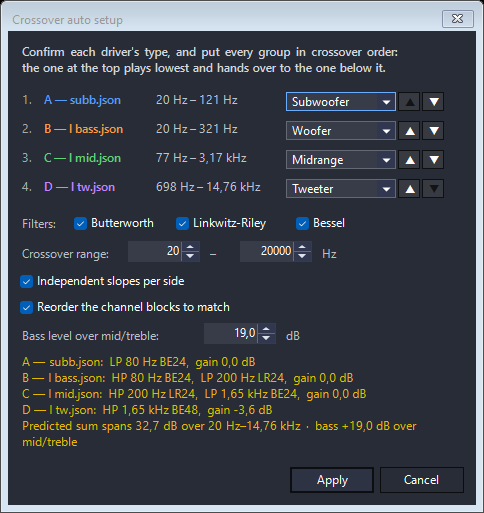
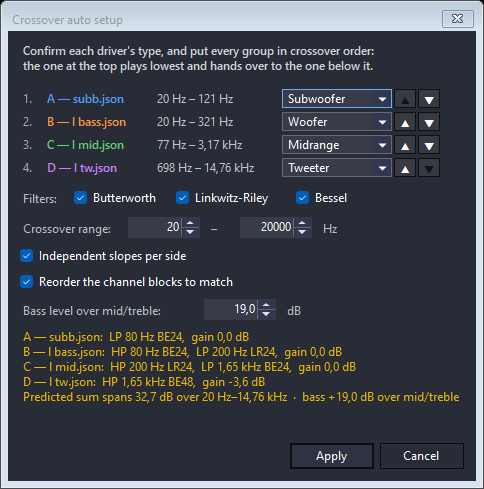
Fix auto crossover layout and document channel groups (#154)
The auto crossover dialog kept its designed width after adding data-driven channel rows, so ordinary imported filenames could push the Down controls beyond the client edge. Size the client area from the realized table at the current DPI, widen the proposal preview with it, and keep the anchored action buttons on the new edge. An STA layout regression test reproduces the reported filenames and pins the table inside the client area.

Expand the tuning manual around the recently added channel groups. The new section maps every row of a real channel card, explains the Sub, Front, Rear and Center zones, states exactly what every Show view draws and sums, and walks through staged Auto Delay including the Rear fill offset and the Groups read-out.

Close the adjacent stale-proposal hole found in review: Rear fill now invalidates a completed Auto Delay result just like every other run input, disabling Apply until the proposal is recomputed. An STA dialog test covers the full Run, edit, invalidation sequence.

Keep the documentation figures reproducible: the screenshot tool now captures and annotates the real channel card, supports compact numbered badges for dense controls, and refreshes the Auto crossover and Auto delay figures from the current UI.

Verification:
- dotnet test source/Resonalyze.sln -c Release --no-restore --filter Category!=Hardware
- 159 Audio tests passed
- 1,410 DSP tests passed
- 1,964 App tests passed; 3 explicit harness tests skipped
[…]

diff --git a/tools/Resonalyze.Screenshots/Shots.cs b/tools/Resonalyze.Screenshots/Shots.cs
@@ -51,10 +51,10 @@ internal static class Shots
                       "backend to draw the dialog for, which no measurement records"
                     : null)),
         new("manual", ShotSession.ManualWindowSize,
-            ["manual/virtual-dsp", "manual/eq-wizard-handoff", "manual/eq-wizard-tuned",
-             "manual/dsp-processor", "manual/dsp-processor-model", "manual/eq-target",
-             "manual/auto-crossover", "manual/auto-delay", "manual/tuning-sheet-q",
-             "manual/audition-track"],
+            ["manual/virtual-dsp", "manual/channel-card", "manual/eq-wizard-handoff",
+             "manual/eq-wizard-tuned", "manual/dsp-processor",
+             "manual/dsp-processor-model", "manual/eq-target", "manual/auto-crossover",
+             "manual/auto-delay", "manual/tuning-sheet-q", "manual/audition-track"],
             Manual)
     ];
 
@@ -340,6 +340,17 @@ internal static class Shots
             AnnotateVirtualDsp(session.Config.Resolve("manual/virtual-dsp"));
         }
 
+        if (wanted("manual/channel-card"))
+        {
+            var list = Reflect.Field<FlowLayoutPanel>(panel, "channelListPanel");
+            Control card = list.Controls.Count > 1
+                ? list.Controls[1]
+                : throw new InvalidOperationException(
+                    "manual/channel-card: the session has no second channel block.");
+            session.Capture(card, "manual/channel-card");
+            AnnotateChannelCard(session.Config.Resolve("manual/channel-card"));
+        }
+
         // The wizard first, and every modal after it: a modal loop of its own is the
         // one thing that has ever disturbed the wizard's async Auto Tune here.
         if (wanted("manual/eq-wizard-handoff") || wanted("manual/eq-wizard-tuned"))
@@ -520,6 +531,28 @@ internal static class Shots
               // The read-out starts high in the column now that Virtual DSP's free
               // right-hand space is all its own — the box followed it up from 384.
               .Region(Box(1490, 145, 1716, 1014), "6", new Point(1516, 988))
+              .Save(path);
+    }
+
+    private static void AnnotateChannelCard(string path)
+    {
+        // A narrow gutter keeps every number off the controls. The smaller badges
+        // are deliberate: six 19-26 px rows have to remain individually readable
+        // on a card only 204 px tall, while the legend itself stays in Markdown.
+        using Annotate figure = Annotate.Open(path);
+        figure.Gutter(40, onLeft: true, sample: new Point(318, 100))
+              .Region(Box(3, 3, 319, 30), "1", new Point(20, 16),
+                  leader: true, badgeRadius: 10)
+              .Region(Box(3, 31, 319, 53), "2", new Point(20, 42),
+                  leader: true, badgeRadius: 10)
+              .Region(Box(3, 53, 319, 75), "3", new Point(20, 64),
+                  leader: true, badgeRadius: 10)
+              .Region(Box(3, 75, 319, 100), "4", new Point(20, 87),
+                  leader: true, badgeRadius: 10)
+              .Region(Box(3, 101, 319, 178), "5", new Point(20, 139),
+                  leader: true, badgeRadius: 10)
+              .Region(Box(3, 179, 319, 203), "6", new Point(20, 191),
+                  leader: true, badgeRadius: 10)
               .Save(path);
     }
 

diff --git a/source/Tools/VirtualCrossover/VirtualCrossoverAutoSetupDialog.cs b/source/Tools/VirtualCrossover/VirtualCrossoverAutoSetupDialog.cs
@@ -407,7 +407,8 @@ internal sealed partial class VirtualCrossoverAutoSetupDialog : Form
     }
 
     // Slides the whole options block just below the auto-sized channel table and
-    // grows the client area so the bottom-anchored buttons clear the preview.
+    // grows the client area so the table clears the right edge and the
+    // bottom-anchored buttons clear the preview.
     // Runs once, after the form has been scaled, so every measurement here is
     // already in device pixels — no hand-computed 96-DPI coordinates survive.
     private void LayoutBelowChannelTable()
@@ -435,7 +436,8 @@ internal sealed partial class VirtualCrossoverAutoSetupDialog : Form
         }
 
         tableChannels.PerformLayout();
-        int shift = tableChannels.Bottom + LogicalToDeviceUnits(12) - labelFilters.Top;
+        int outsideMargin = LogicalToDeviceUnits(12);
+        int shift = tableChannels.Bottom + outsideMargin - labelFilters.Top;
         foreach (Control control in new Control[]
                  {
                      labelFilters, checkButterworth, checkLinkwitzRiley, checkBessel,
@@ -446,6 +448,14 @@ internal sealed partial class VirtualCrossoverAutoSetupDialog : Form
         {
             control.Top += shift;
         }
+
+        // The table is AutoSize because names and measured bands are data. It can
+        // therefore be wider than the designed client area even at 100% DPI, and
+        // the last Down arrow used to be painted outside the dialog. Give the
+        // table its real width plus the same right margin as the left one, and let
+        // the anchored action buttons follow the new edge.
+        int clientWidth = Math.Max(ClientSize.Width, tableChannels.Right + outsideMargin);
+        labelPreview.Width = clientWidth - labelPreview.Left - outsideMargin;
 
         // The preview shows one line per channel plus a heading and a summary for
         // every group, and a summary long enough wraps onto a second line — so it
@@ -461,9 +471,8 @@ internal sealed partial class VirtualCrossoverAutoSetupDialog : Form
                     TextFormatFlags.WordBreak).Height)
             + LogicalToDeviceUnits(6);
         ClientSize = new Size(
-            ClientSize.Width,
-            labelPreview.Bottom + LogicalToDeviceUnits(12) + buttonApply.Height
-                + LogicalToDeviceUnits(12));
+            clientWidth,
+            labelPreview.Bottom + outsideMargin + buttonApply.Height + outsideMargin);
     }
 
     // The tallest the preview can get: every channel, plus a heading and a

diff --git a/tests/Resonalyze.App.Tests/VirtualCrossoverAutoSetupGroupTests.cs b/tests/Resonalyze.App.Tests/VirtualCrossoverAutoSetupGroupTests.cs
@@ -78,6 +78,41 @@ public sealed class VirtualCrossoverAutoSetupGroupTests
             "G rear sub", VirtualCrossoverAlignmentStage.FrontChain, 20, 300, lowPassHz: 50)
     ];
 
+    [Fact]
+    public void ChannelOrderControlsRemainInsideTheClientArea()
+    {
+        // These are ordinary imported filenames, not pathological labels. At the
+        // designed fixed width their table reaches past the right edge and clips
+        // the Down arrow, exactly where the user needs it to reorder the chain.
+        string[] names =
+        [
+            "A — f R TWEET.json",
+            "B — f RT Mid.json",
+            "C — f R MB.json",
+            "D — f FRONT Sub.json",
+            "E — f REAR Sub.json",
+            "F — f R fill.json",
+            "G — f R center.json"
+        ];
+        IReadOnlyList<AutoSetupWizardChannel> channels = ReferenceCar()
+            .Select((channel, index) => channel with { Name = names[index] })
+            .ToList();
+
+        StaTest.Run(() =>
+        {
+            using var dialog = new VirtualCrossoverAutoSetupDialog();
+            dialog.Init(SampleRate, SampleRate, channels);
+            dialog.Show();
+
+            var table = (TableLayoutPanel)typeof(VirtualCrossoverAutoSetupDialog)
+                .GetField("tableChannels", BindingFlags.NonPublic | BindingFlags.Instance)!
+                .GetValue(dialog)!;
+            Assert.True(
+                table.Right < dialog.ClientSize.Width,
+                $"channel table ends at {table.Right} in a {dialog.ClientSize.Width}px client");
+        });
+    }
+
     // Apply's handler is async void and, with no impulse responses to rank
     // against, finishes inside the call — the ranked path is the one that awaits.
     // Every fixture here must leave the order unambiguous (corners on the subs):

diff --git a/tools/Resonalyze.Screenshots/Annotate.cs b/tools/Resonalyze.Screenshots/Annotate.cs
@@ -79,20 +79,27 @@ internal sealed class Annotate : IDisposable
     }
 
     /// <summary>A numbered region, with an optional leader to a badge outside it.</summary>
-    public Annotate Region(Rectangle box, string number, Point badgeAt, bool leader = false)
+    public Annotate Region(
+        Rectangle box,
+        string number,
+        Point badgeAt,
+        bool leader = false,
+        int badgeRadius = 17)
     {
         Rectangle shifted = Shift(box);
         Point badge = new(badgeAt.X + (badgeAt.X < offsetX ? 0 : offsetX), badgeAt.Y);
         DrawRounded(shifted, Amber, 3, 9);
         if (leader)
         {
-            int fromX = badge.X < shifted.Left ? badge.X + 17 : badge.X - 17;
+            int fromX = badge.X < shifted.Left
+                ? badge.X + badgeRadius
+                : badge.X - badgeRadius;
             int toX = badge.X < shifted.Left ? shifted.Left : shifted.Right;
             using var pen = new Pen(Amber, 3);
             graphics.DrawLine(pen, fromX, badge.Y, toX, badge.Y);
         }
 
-        DrawBadge(badge, number);
+        DrawBadge(badge, number, badgeRadius);
         return this;
     }
 
@@ -172,7 +179,8 @@ internal sealed class Annotate : IDisposable
     {
         using var fill = new SolidBrush(Amber);
         graphics.FillEllipse(fill, centre.X - radius, centre.Y - radius, radius * 2, radius * 2);
-        using Font font = new("Segoe UI", 21, FontStyle.Bold, GraphicsUnit.Pixel);
+        int fontSize = radius == 17 ? 21 : Math.Max(12, radius + 4);
+        using Font font = new("Segoe UI", fontSize, FontStyle.Bold, GraphicsUnit.Pixel);
         SizeF size = graphics.MeasureString(text, font);
         using var ink = new SolidBrush(Ink);
         graphics.DrawString(

diff --git a/tests/Resonalyze.App.Tests/VirtualCrossoverAutoDelayDialogTests.cs b/tests/Resonalyze.App.Tests/VirtualCrossoverAutoDelayDialogTests.cs
@@ -1,0 +1,44 @@
+using System.Reflection;
+using System.Text;
+using System.Windows.Forms;
+using Resonalyze;
+
+namespace Resonalyze.App.Tests;
+
+public sealed class VirtualCrossoverAutoDelayDialogTests
+{
+    [Fact]
+    public void ChangingRearFillInvalidatesTheCompletedProposal() => StaTest.Run(() =>
+    {
+        using var dialog = new VirtualCrossoverAutoDelayDialog();
+        dialog.Init(
+            stereo: true,
+            sceneOffsetMs: 0.25,
+            rightHandDrive: false,
+            nearSideCutDb: 1.0,
+            request => Task.FromResult(new AutoDelayRunResult(
+                [], true, request, "Proposal for the current inputs.", new StringBuilder())),
+            hasRearFill: true,
+            rearFillOffsetMs: 15.0);
+
+        var run = (Task)typeof(VirtualCrossoverAutoDelayDialog)
+            .GetMethod("RunAsync", BindingFlags.NonPublic | BindingFlags.Instance)!
+            .Invoke(dialog, null)!;
+        run.GetAwaiter().GetResult();
+
+        Assert.NotNull(dialog.Result);
+        Button apply = Field<Button>(dialog, "buttonApply");
+        Assert.True(apply.Enabled);
+
+        Field<DarkNumericUpDown>(dialog, "numericRearFill").Value = 10m;
+
+        Assert.Null(dialog.Result);
+        Assert.False(apply.Enabled);
+        Assert.Contains("Run again", Field<Label>(dialog, "labelStatus").Text);
+    });
+
+    private static T Field<T>(object target, string name) where T : class =>
+        (T)target.GetType()
+            .GetField(name, BindingFlags.NonPublic | BindingFlags.Instance)!
+            .GetValue(target)!;
+}

diff --git a/source/Tools/VirtualCrossover/VirtualCrossoverAutoDelayDialog.cs b/source/Tools/VirtualCrossover/VirtualCrossoverAutoDelayDialog.cs
@@ -40,6 +40,7 @@ internal sealed partial class VirtualCrossoverAutoDelayDialog : Form
         // own Checked, so LHD needs no listener of its own.
         radioRightHandDrive.CheckedChanged += (_, _) => InvalidateResult();
         numericSceneOffset.ValueChanged += (_, _) => InvalidateResult();
+        numericRearFill.ValueChanged += (_, _) => InvalidateResult();
         numericNearSideCut.ValueChanged += (_, _) => InvalidateResult();
         checkBoxGains.CheckedChanged += (_, _) =>
         {

diff --git a/MANUAL.md b/MANUAL.md
@@ -640,18 +640,59 @@ For a three-way front stage with a subwoofer:
 Load the saved `.json` measurements for the **Left** and **Right** sides of each stereo
 band. For a shared subwoofer, enable **Mono** and load its single measurement.
 
-Set each block's **Zone** while you are there — **Front** for the stereo bands of the
-front stage, **Sub** for the subwoofer, and **Rear** or **Center** for the blocks a
-larger install adds. Picking **Center** switches **Mono** on and locks it, because a
-centre channel plays a signal derived from L and R and has no side of its own.
+### One channel card
 
-The zone is what the **Show** selector under the plot sorts by, so on a front-only car
-you can set every block to Front and Sub and forget it — that is the default view and
-what this chapter's four-way looks like throughout. On a larger install the zone is how
-you look at one part at a time: the front stage with its subwoofers, then the rear fill,
-then the centre. **Auto delay** reads the zone as well: it settles the front chain first
-and then places the rear fill and the centre against it, so on a larger install the zones
-are what make its proposal mean anything.
+The same controls repeat on every block. This enlarged card is the useful map when the
+full-panel figure above is too small to read:
+
+![One Virtual DSP channel card, with its six control rows marked](assets/images/manual/channel-card.png)
+
+1. **Source** — the measurement loaded for the side currently selected below the card
+   list; **MMM / Array** attaches or selects its spatial average, and the speaker button
+   excludes this block from the plots, Sum, metrics and Auto Delay.
+2. **Curves** — show the raw measurement, the processed result, or bypass the whole
+   virtual chain for this block.
+3. **Level and time** — channel gain, total gain after PEQ preamp, and delay.
+4. **Group and order** — **Zone**, **Mono**, polarity inversion, and the **▲▼** buttons
+   that move the entire block in the list.
+5. **Crossover** — kind, HP/LP corners, family, slope, and ripple where the selected
+   family has one.
+6. **PEQ** — hand the processed channel to the EQ Wizard, load or clear its bank, and
+   read back how many bands and how much preamp it carries.
+
+### Assign channel groups
+
+Set each block's **Zone** as soon as its source is loaded. A zone does not reroute audio
+or change a filter; it tells the plot and the two optimizers which physical part of the
+installation the block belongs to:
+
+- **Sub** — every subwoofer block. Sub is its own display and tuning-sheet section, but
+  it is the bottom of the **front crossover chain** for Auto Crossover and Auto Delay,
+  not a fourth independent alignment stage.
+- **Front** — the stereo woofer/midbass, midrange and tweeter bands of the front stage.
+- **Rear** — the rear fill. A multi-way rear remains one group: its own drivers are
+  crossed and aligned with each other before the complete rear group is placed against
+  the front.
+- **Center** — the centre speaker, including every band of a multi-way centre. Picking
+  Center switches **Mono** on and locks it, because the centre has no left or right side
+  of its own.
+
+The **Show** selector below the main plot then turns those zones into useful views:
+
+| Show | What it draws | What its Sum contains |
+| --- | --- | --- |
+| **Front + Sub** | front-stage and subwoofer driver curves | all of them |
+| **Rear + Sub** | rear-fill and subwoofer driver curves | all of them |
+| **Front + Center** | front-stage and centre curves for comparison | front only |
+| **Groups** | one summed line per zone, with no driver curves | each zone separately |
+| **Everything** | every driver | everything except the centre |
+
+**Front + Sub** is the default and the only view a front-only install normally needs.
+Use **Rear + Sub** to inspect the rear's own crossover chain, **Front + Center** to
+compare the centre without inventing a programme-dependent sum, and **Groups** to set
+the rear and centre's arrival and level against the front. The read-out follows the
+view: across groups it reports **vs Front** arrival and level differences instead of
+calling the inevitable front/rear combing a crossover loss.
 
 So seven RAW measurements become four Virtual DSP channels:
 
@@ -1252,6 +1293,32 @@ the processed system, not on the RAW drivers.**
 Press **Auto delay...** in Virtual DSP.
 
 Select **LHD** or **RHD** according to the steering-wheel position.
+
+### How Auto Delay uses the groups
+
+Auto Delay does not pretend the whole car is one crossover chain. It works in stages:
+
+1. It aligns **Front + Sub** first, walking each real crossover junction from the
+   lowest subwoofer to the highest front driver.
+2. It aligns the drivers inside a multi-way **Rear** or **Center** group with each
+   other, so the group is settled before it is moved.
+3. It places each rear side against the front stage on that same side, and places the
+   mono centre between the two front sums. Nothing in the already settled front chain
+   is retuned during this step.
+
+When the project contains a Rear block, the dialog enables **Rear fill ms**. This is how
+far *behind* the front stage the rear should arrive, on top of the delay needed merely
+to make the nearer rear speakers co-arrive with it. Start at the 15 ms default; roughly
+10–20 ms usually lets the rear add space while the precedence effect keeps the image on
+the dashboard. Use **0 ms** when co-arrival for second-row listeners matters more.
+
+After Apply, choose **Show → Groups**. Its **vs Front** read-out is the practical check:
+the rear's `Δt` should reflect the offset you requested, while its `ΔdB` lets you set
+level by ear. A useful starting method is to put the rear roughly 6–12 dB below the
+front, raise it until it becomes audible as a separate source, then take it back by
+2–3 dB. The centre is compared the same way, but its final level depends on how the
+processor derives centre content from the programme, so the measurement cannot choose
+that balance for you.
 
 ### Stereo-image positioning
 
